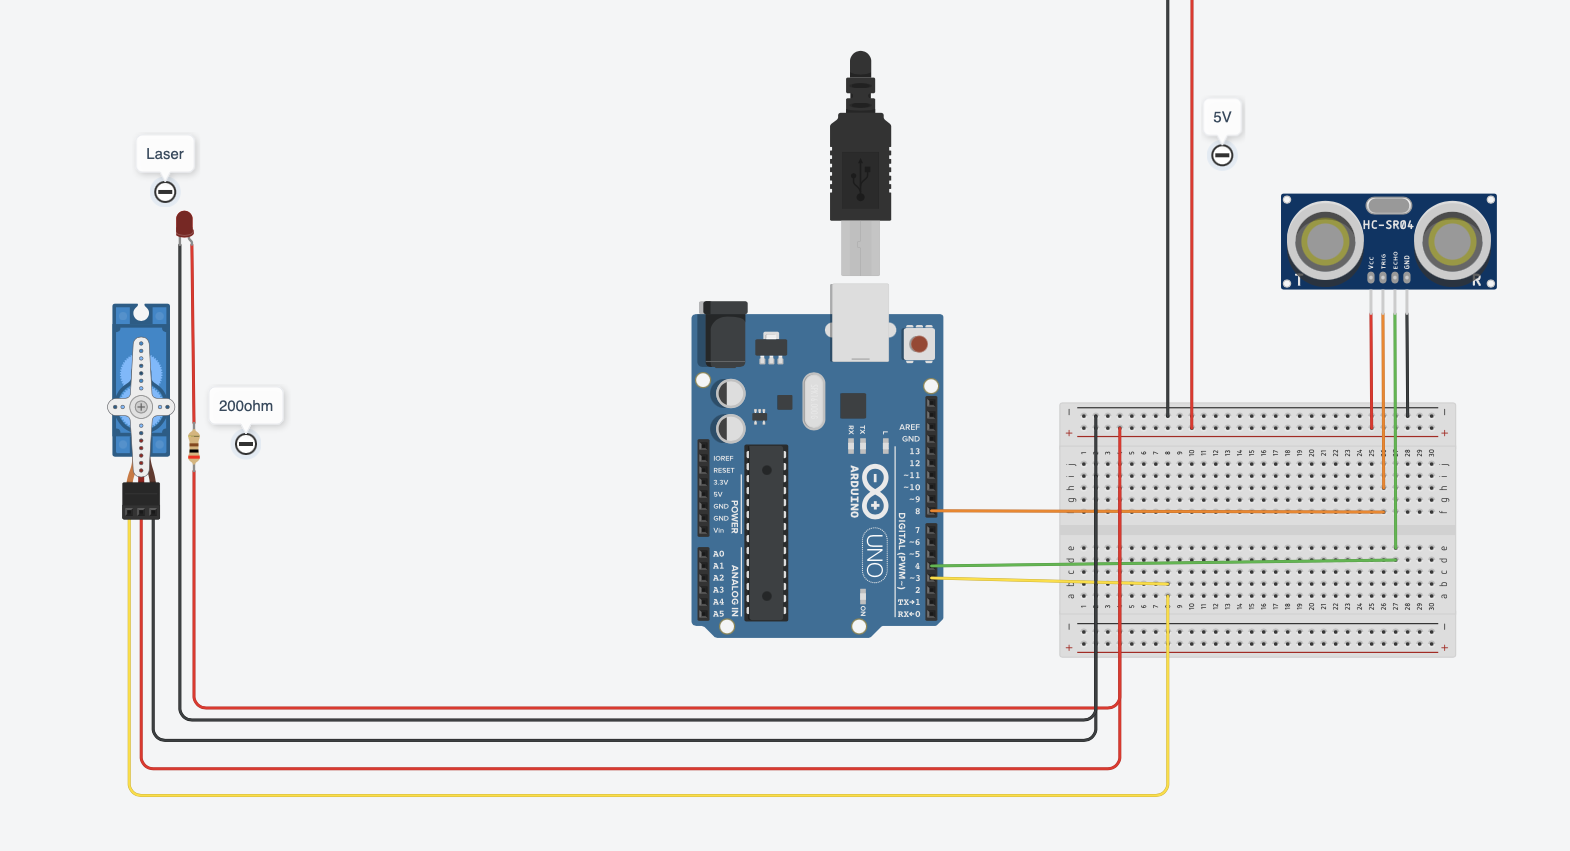
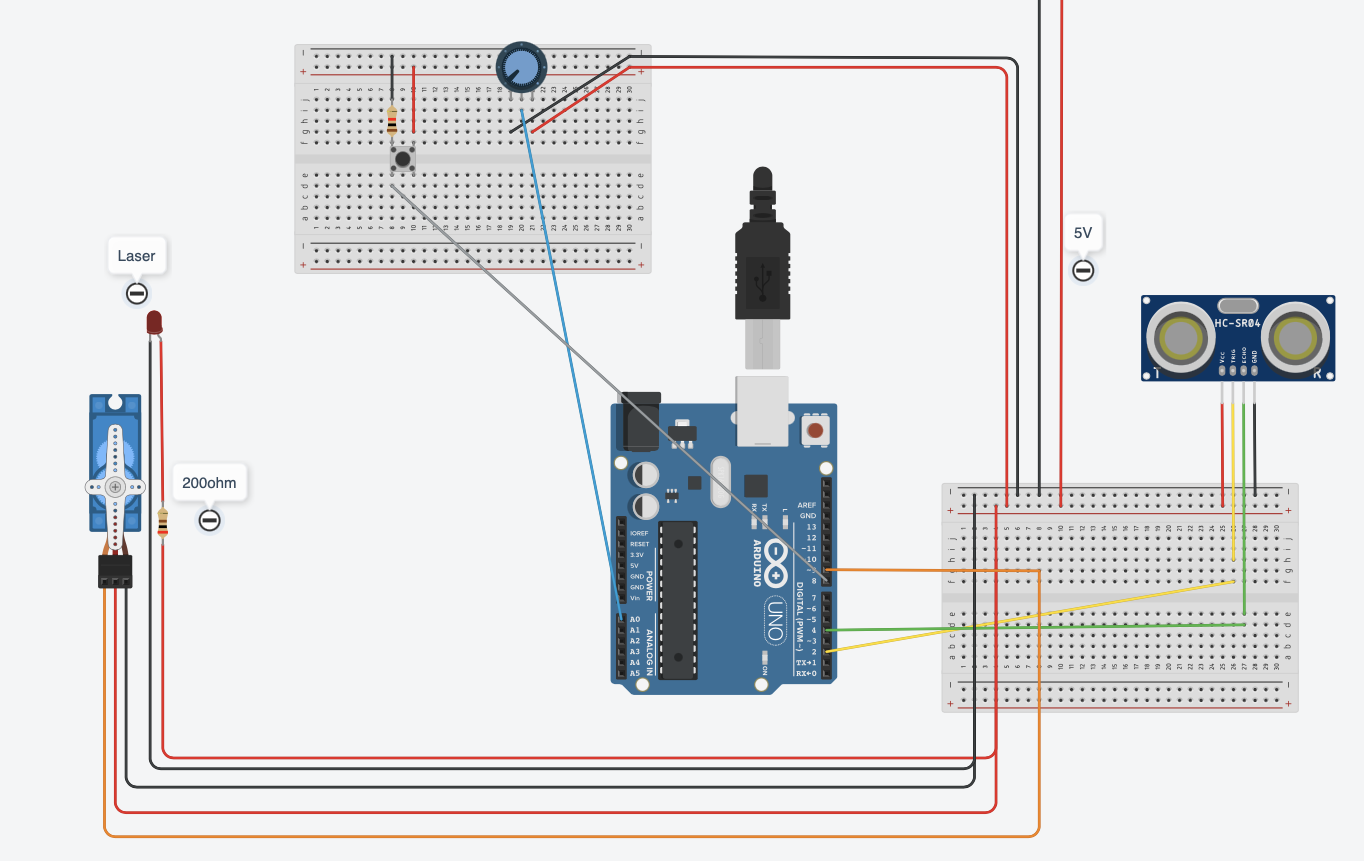
added feature to modify the DISTANCE_MOUNT parameter

Changed region(s): [[0.0616, 0.0, 0.9853, 0.9777]]

diff --git a/README.md b/README.md
@@ -27,5 +27,6 @@ Salvato nel file [wiring](wiring.txt), importabile in [circuitjs](https://www.fa
 
 
 ### Installazione
-Il laser va montato sul lato destro all'altezza del riferimento preso in considerazione. La distanza a cui si consiglia di montarlo è tra i 30-100cm, in maniera tale da ridurre la lunghezza della linea proiettata e da migliorare la precisione. Tale valore di distanza deve essere inserite nel parametro `mount_distance` prima di flashare il codice.
+Il laser va montato sul lato destro, all'altezza del riferimento preso in considerazione.
+La distanza di montaggio del laser dal punto di riferimento è il parametro principale del sistema ed ha valore default di `40cm`. Può essere tuttavia configurato a run-time (nel range `30-100cm`) a seconda dell'esigenze: è sufficiente regolare il potenziometro e tener premuto il pulsante per circa 1s.
 
